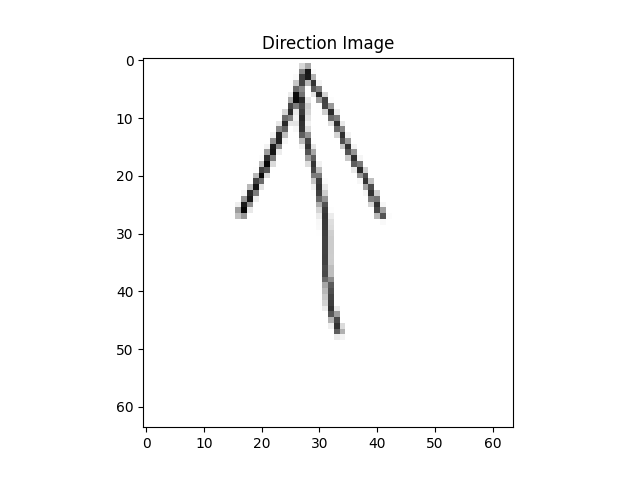
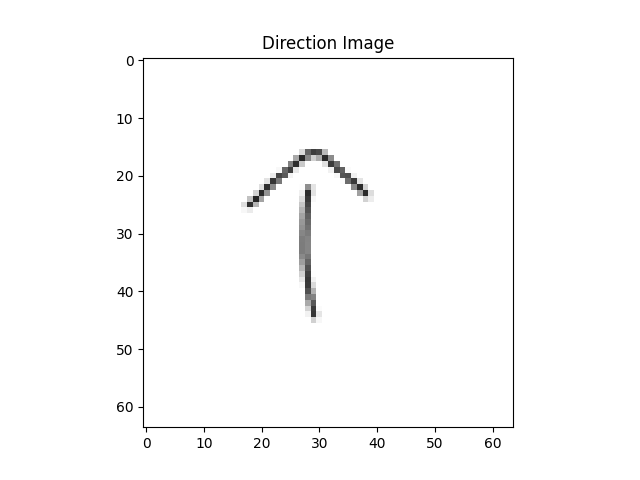
linked quizzes and levels via get_user_score

Changed region(s): [[0.3438, 0.125, 0.625, 0.6875]]

diff --git a/app.py b/app.py
@@ -3101,6 +3101,360 @@ def predict_handwriting_batch_therapy():
         return jsonify({"status": "error", "message": str(e)}), 500
 
 
+# =============================================================================
+# QUIZ 3 BACKEND ROUTES  —  paste into app.py replacing old versions
+#
+# FIXES vs original:
+#  1. Reads errors from Assessment_Test + Level_Schema (not 'Level' collection)
+#  2. /get_personalized_question_quiz3 uses q_num "1","2","3" matching Kotlin
+#  3. /submit_quiz_answer stores to Quiz → user_id → "Quiz 3" subcollection
+#  4. /api/scores now counts Quiz 3 completions so Levelselection can unlock Level 4
+# =============================================================================
+
+import traceback, random
+from flask import request, jsonify
+from config.firebase import get_db
+from firebase_admin import firestore
+
+
+# =============================================================================
+# GET /get_personalized_question_quiz3?user_id=...&question_number=1|2|3
+#
+# FIX 1: Added length filter (3-5 chars) when reading from Firestore sources
+#         so single-letter garbage words can never become the target.
+# FIX 2: question_number is now normalised to a string early, so "1"/"2"/"3"
+#         always match regardless of what the client sends.
+# =============================================================================
+@app.route('/get_personalized_question_quiz3', methods=['GET'])
+def get_personalized_question_quiz3():
+    user_id = request.args.get('user_id')
+    q_num   = str(request.args.get('question_number', '1')).strip()  # always a string
+
+    if not user_id:
+        return jsonify({"error": "Missing user_id"}), 400
+
+    try:
+        db = get_db()
+        error_words = []
+
+        # ── Source 1: Level_Schema → Level_3 ─────────────────────────────────
+        # FIX: added  3 <= len(w) <= 5  guard so single-char Firestore values
+        #      never become the quiz target word.
+        try:
+            docs = (db.collection('Level')
+                      .document(user_id)
+                      .collection('Level_3')
+                      .stream())
+            for doc in docs:
+                for w in (doc.to_dict() or {}).get('Error', []):
+                    w = str(w).strip().lower()
+                    if w and 3 <= len(w) <= 5 and w not in error_words:
+                        error_words.append(w)
+        except Exception as e:
+            print(f"Level_Schema read error: {e}")
+
+        # ── Source 2: Assessment_Test → Level_3 (skip mastered) ──────────────
+        try:
+            docs = (db.collection('Assessment_Test')
+                      .document(user_id)
+                      .collection('Level_3')
+                      .stream())
+            for doc in docs:
+                data = doc.to_dict() or {}
+                if data.get('Mastered'):
+                    continue
+                for w in data.get('Error', []):
+                    w = str(w).strip().lower()
+                    if w and 3 <= len(w) <= 5 and w not in error_words:
+                        error_words.append(w)
+        except Exception as e:
+            print(f"Assessment_Test read error: {e}")
+
+        # ── Source 3: CSV fallback ────────────────────────────────────────────
+        if not error_words:
+            pool = [w for w in CSV_WORDS if 3 <= len(w) <= 5]
+            random.shuffle(pool)
+            error_words = pool[:10]
+
+        random.shuffle(error_words)
+        target_word = error_words[0] if error_words else "cat"
+
+        print(f"(QUIZ3 Q{q_num}) User={user_id} | Target='{target_word}'")
+
+        # ── Route by question type ────────────────────────────────────────────
+        if q_num == "1":
+            # MCQ — target word + 2 distractors
+            options = build_distractor_options_for_q11(target_word)
+            return jsonify({
+                "audio_url":   None,
+                "target_word": target_word,
+                "data": [{"target": target_word, "options": options}]
+            }), 200
+
+        elif q_num == "2":
+            # Read-aloud — flat list of similar words used as swipe cards
+            read_words = find_similar_words_from_csv(target_word, count=4)
+            return jsonify({
+                "audio_url":   None,
+                "target_word": target_word,
+                "data":        read_words       # flat list of strings
+            }), 200
+
+        elif q_num == "3":
+            # Rhyme grid — 12 shuffled words
+            rhyme_words = find_similar_words_from_csv(target_word, count=12)
+            random.shuffle(rhyme_words)
+            return jsonify({
+                "audio_url":   None,
+                "target_word": target_word,
+                "data":        rhyme_words      # flat list of 12 strings
+            }), 200
+
+        else:
+            return jsonify({"error": f"Invalid question_number '{q_num}'. Use 1, 2, or 3."}), 400
+
+    except Exception as e:
+        traceback.print_exc()
+        return jsonify({"error": str(e)}), 500
+
+
+# =============================================================================
+# POST /submit_quiz_answer
+#
+# FIX: Replaced hardcoded total_questions=4 with a per-distinct-question-number
+#      count so the 75% threshold works correctly when Q2 submits multiple
+#      cards (one attempt per word in the read-aloud stack).
+#
+# Logic:
+#   • Every POST is stored as before (individual attempt document).
+#   • For the pass/fail score we look at the LATEST attempt per question
+#     number (1, 2, 3) — one result per question, not per card.
+#   • 3 questions total; pass = at least 2 correct (≥ 75 % rounds to this).
+# =============================================================================
+@app.route('/submit_quiz_answer', methods=['POST'])
+def submit_quiz_answer():
+    user_id    = request.form.get('user_id')
+    target     = request.form.get('target_word', '').strip().lower()
+    q_num_str  = request.form.get('question_number', '0')
+    is_correct = request.form.get('is_correct', 'false').lower() == 'true'
+
+    if not user_id:
+        return jsonify({"error": "Missing user_id"}), 400
+
+    try:
+        db = get_db()
+        quiz_col_ref = (db.collection('Quiz')
+                          .document(user_id)
+                          .collection('Quiz 3'))
+
+        # 1. Store the individual attempt (unchanged)
+        quiz_col_ref.add({
+            "word":            target,
+            "question_number": int(q_num_str) if q_num_str.isdigit() else 0,
+            "is_correct":      is_correct,
+            "timestamp":       firestore.SERVER_TIMESTAMP
+        })
+
+        # 2. Calculate score: one result per distinct question number (1, 2, 3).
+        #    For each question we take the LATEST attempt's is_correct value.
+        #    This means Q2 multi-card submissions don't inflate the denominator.
+        all_docs = list(quiz_col_ref.stream())
+
+        # Build dict: {question_number -> latest is_correct}
+        # Sort by timestamp if available, otherwise keep last seen.
+        from collections import defaultdict
+        latest_per_q = {}   # {q_num_int: is_correct}
+
+        for doc in all_docs:
+            data = doc.to_dict() or {}
+            qn   = data.get('question_number', 0)
+            if qn not in (1, 2, 3):        # skip the score_summary doc & junk
+                continue
+            ts = data.get('timestamp')      # Firestore Timestamp or None
+
+            if qn not in latest_per_q:
+                latest_per_q[qn] = (ts, data.get('is_correct', False))
+            else:
+                prev_ts, _ = latest_per_q[qn]
+                # If both timestamps exist, keep the more recent one
+                if ts is not None and (prev_ts is None or ts > prev_ts):
+                    latest_per_q[qn] = (ts, data.get('is_correct', False))
+
+        total_questions  = 3   # Q1, Q2, Q3
+        correct_total    = sum(1 for (_, correct) in latest_per_q.values() if correct)
+        # 75% of 3 = 2.25 → need at least 2 correct to pass (floor)
+        reaches_75_percent = correct_total >= 2
+
+        # 3. Update score summary
+        quiz_col_ref.document('score_summary').set({
+            "total_correct":   correct_total,
+            "total_questions": total_questions,
+            "percentage":      round((correct_total / total_questions) * 100, 1),
+            "passed_75":       reaches_75_percent,
+            "last_updated":    firestore.SERVER_TIMESTAMP
+        }, merge=True)
+
+        # 4. Mark completion in Assessment_Test so Level 4 unlocks
+        if reaches_75_percent:
+            (db.collection('Assessment_Test')
+               .document(user_id)
+               .collection('Quiz_3')
+               .document('completion')
+               .set({
+                   'completed':  True,
+                   'score':      f"{correct_total}/{total_questions}",
+                   'flag_75':    True,
+                   'timestamp':  firestore.SERVER_TIMESTAMP
+               }, merge=True))
+
+        return jsonify({
+            "status":        "success",
+            "total_correct": correct_total,
+            "quiz3_passed":  reaches_75_percent
+        }), 200
+
+    except Exception as e:
+        traceback.print_exc()
+        return jsonify({"error": str(e)}), 500
+
+
+# =============================================================================
+# GET /api/scores/<user_id>   — Fully aligned with Compose dynamic unlock logic
+# =============================================================================
+@app.route("/api/scores/<user_id>", methods=['GET'])
+def get_user_score(user_id):
+    try:
+        db = get_db()
+
+        user_profile_doc = db.collection('users').document(user_id).get()
+        if not user_profile_doc.exists:
+            return jsonify({"status": "error", "message": "User profile not found."}), 404
+
+        user_data     = user_profile_doc.to_dict()
+        has_completed = user_data.get('hasCompletedAssessment', True)
+
+        if not has_completed:
+            return jsonify({
+                "status": "success", 
+                "assessment_unlocked_index": 0,
+                "Level2_Empty": True,
+                "data": []
+            }), 200
+
+        assessment_ref = db.collection('Assessment_Test').document(user_id)
+        scores_summary = []
+        assessment_scores = {}
+
+        level_totals = {
+            'Level_1': 5,
+            'Level_2': 5,
+            'Level_3': 5,
+            'Level_4': 4
+        }
+
+        # Track if Level 2 subcollection has any error documents at all
+        level2_is_empty = True
+
+        # ── 1. Calculate Base Assessment Scores ──────────────────────────────
+        for level_name, total_questions in level_totals.items():
+            collection_ref  = assessment_ref.collection(level_name)
+            docs = list(collection_ref.stream())
+            errors_made = len(docs)
+            
+            if level_name == 'Level_2' and errors_made > 0:
+                level2_is_empty = False
+
+            correct_answers = max(0, total_questions - errors_made)
+            assessment_scores[level_name] = correct_answers
+            
+            # Base payload item
+            item_data = {
+                "level": level_name,
+                "score": f"{correct_answers}/{total_questions}"
+            }
+
+            # ── Inject Level 1 meta_status (Quiz 1 Check) ──
+            if level_name == 'Level_1':
+                unlocked_lvl_2 = False
+                try:
+                    # Adjust path if Level_1 is stored as a document field instead of a subcollection doc
+                    lvl1_meta_doc = db.collection('Level').document(user_id).collection('Level_1').document('meta_status').get()
+                    if lvl1_meta_doc.exists:
+                        unlocked_lvl_2 = lvl1_meta_doc.to_dict().get('unlocked_level_2', False)
+                except Exception as e:
+                    print(f"Error fetching Level 1 meta_status: {e}")
+                
+                item_data["meta_status"] = {"unlocked_level_2": unlocked_lvl_2}
+
+            scores_summary.append(item_data)
+
+        # ── 2. Derive Baseline Assessment Index ──────────────────────────────
+        base_unlocked_index = 0
+        if assessment_scores.get('Level_1', 0) >= 3:
+            base_unlocked_index = 2  # Unlocks Level 2
+            if assessment_scores.get('Level_2', 0) >= 3:
+                base_unlocked_index = 4  # Unlocks Level 3
+                if assessment_scores.get('Level_3', 0) >= 3:
+                    base_unlocked_index = 6  # Unlocks Level 4
+
+       # ── 2. Fetch Quiz 2 Data ─────────────────────────────────────────────
+        quiz2_score = 0
+        try:
+            q2_doc = db.collection('Quiz').document(user_id).collection('Quiz_2').document('score_summary').get()
+            if q2_doc.exists:
+                quiz2_score = q2_doc.to_dict().get('score', 0)
+        except Exception:
+            pass
+        
+        scores_summary.append({
+            "level": "Quiz_2",
+            "score": f"{quiz2_score}/5"
+        })
+        # ── 3. Derive Baseline Assessment Index (Updated) ────────────────────
+        base_unlocked_index = 0
+        if assessment_scores.get('Level_1', 0) >= 3:
+            base_unlocked_index = 2  # Unlocks Level 2
+            
+            # Allow progression if EITHER Level 2 OR Quiz 2 is passed >= 3
+            if assessment_scores.get('Level_2', 0) >= 3 or quiz2_score >= 3:
+                base_unlocked_index = 4  # Unlocks Level 3
+                if assessment_scores.get('Level_3', 0) >= 3:
+                    base_unlocked_index = 6  # Unlocks Level 4
+
+        # ── 4. Quiz 3 completion (Passed 75% Check) ──────────────────────────
+        passed_75 = False
+        try:
+            # Pointing exactly to: Quiz -> [userid] -> Quiz 3 -> score_summary
+            quiz3_doc = db.collection('Quiz').document(user_id).collection('Quiz 3').document('score_summary').get()
+            if quiz3_doc.exists:
+                passed_75 = quiz3_doc.to_dict().get('passed_75', False)
+        except Exception as e:
+            print(f"Error fetching Quiz 3 summary: {e}")
+
+        scores_summary.append({
+            "level": "Quiz_3",
+            "score": f"{'1' if passed_75 else '0'}/1",
+            "score_summary": {
+                "passed_75": passed_75
+            }
+        })
+
+        # ── Final Payload Assembly ───────────────────────────────────────────
+        return jsonify({
+            "status": "success",
+            "assessment_unlocked_index": base_unlocked_index,
+            "Level2_Empty": level2_is_empty,
+            "data": scores_summary
+        }), 200
+
+    except Exception as e:
+        print(f"Flask API Error: {e}")
+        return jsonify({"status": "error", "message": str(e)}), 500
+
+
+#==============LEVEL SELECTION FLAG CHECK=====================================
+#=============================================================================
+
 
 
 if __name__ == "__main__":
